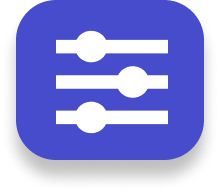
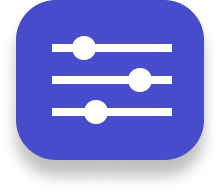
creation of CreateRace screen + changes on filter appearance

diff --git a/screens/MapScreen.tsx b/screens/MapScreen.tsx
@@ -5,12 +5,13 @@ import { useDispatch, useSelector } from 'react-redux';
 import { addPlace, importPlaces } from '../reducers/user';
 import MapView, { Marker } from 'react-native-maps';
 import * as Location from 'expo-location';
+import { useNavigation } from '@react-navigation/native';
 
 
 const BACKEND_ADDRESS = 'http://10.6.240.95:3000';
 
-export default function MapScreen(navigation) {
-
+export default function MapScreen() {
+  const navigation = useNavigation();
   const dispatch = useDispatch();
   const user = useSelector((state) => state.user.value);
 
@@ -48,7 +49,7 @@ export default function MapScreen(navigation) {
     //   });
   }, []);
 
-  const handleSubmit = () => {
+  const handle = () => {
     navigation.navigate('CreateRace');
   }
 
@@ -75,8 +76,8 @@ export default function MapScreen(navigation) {
             />
             
           {/* </View>   */}
-          <TouchableOpacity  style={styles.button} activeOpacity={0.8}>
-                  <Text style={styles.textButton} onPress={() => handleSubmit()}>Créer une course</Text>
+          <TouchableOpacity  style={styles.button} onPress={() => handle()} activeOpacity={0.8}>
+                  <Text style={styles.textButton} >Créer une course</Text>
           </TouchableOpacity>  
 
         {/* </View>     */}

diff --git a/screens/CreateRace.tsx b/screens/CreateRace.tsx
@@ -9,7 +9,7 @@ export default function CreateRace() {
     
     return (
     <View style={styles.container}>
-        <Text >
+        <Text style={styles.text}>
             HelloCreate
         </Text>
     </View>
@@ -20,8 +20,14 @@ export default function CreateRace() {
 const styles = StyleSheet.create({
     container: {
       flex: 1,
+      flexDirection:"column",
+      alignItems:'center',
       width: Dimensions.get("window").width,
     height:Dimensions.get("window").height,
     },
+    text:{
+      flex: 1,
+      fontSize:30,
+    }
 
 })
